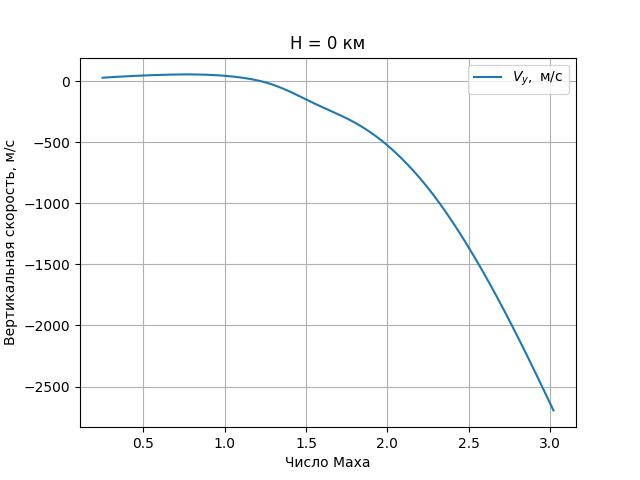
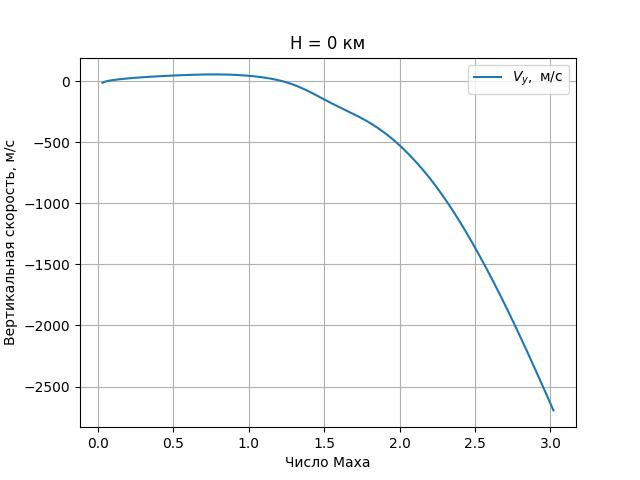
new correct

diff --git a/Kurs_Petr/LTX/Print.py b/Kurs_Petr/LTX/Print.py
@@ -115,32 +115,37 @@ qkm_min = []
 Mq_max = []
 Mqh_min = []
 Mqkm_min = []
-for i in range(len(H_interp)): 
-    Vy_max.append(np.max(V_y[i]))
-    P_potr_min.append(np.min(P_potr[i]))
-    qh_min.append(np.min(qh(M_interp,H_interp[i])))
-    qkm_min.append(np.min(qkm(M_interp,H_interp[i])))
-    # Mq_max = 2*q_max/(sqrt())
-    MVy_max.append(M_interp[np.where(V_y[i]==Vy_max[i])])
-    M_nae.append(M_interp[np.where(P_potr[i]==P_potr_min[i])])
-    Mqh_min.append(M_interp[np.where(qh(M_interp,H_interp[i])==qh_min[i])])
-    Mqkm_min.append(M_interp[np.where(qkm(M_interp,H_interp[i])==qkm_min[i])])
-print(Mqkm_min)
-
-M_interp = np.arange(M1[1],M1[-1],0.0001)
-H_interp = np.arange(H1[0],H1[-1],50)
+MCy_dop = []
+M_interp = np.arange(M1[0],M1[-1],0.00001)
+H_interp = np.arange(H1[0],H1[-1],1000)
+P_rasp = Pr(M_interp,H_interp)
+P_potr = Pp(M_interp,H_interp)
+V_y = Vy(M_interp,H_interp)
+C_y = Cy(M_interp,H_interp)
 M_min = []
 M_max = []
 for i in range(len(H_interp)):
-    for j in range(len(M_interp)):
-        if M_nae[i]<=M_interp[j]:
-            if abs(P_rasp[i][j]-P_potr[i][j])<=100:
-                M_min.append(M_interp[j])
-                break
+    P_potr_min.append(np.min(P_potr[i]))
+    M_nae.append(M_interp[np.where(P_potr[i]==P_potr_min[i])])
+    Vy_max.append(np.max(V_y[i]))
+    qh_min.append(np.min(qh(M_interp,H_interp[i])))
+    qkm_min.append(np.min(qkm(M_interp,H_interp[i])))
+    MVy_max.append(M_interp[np.where(V_y[i]==Vy_max[i])])
+    Mqh_min.append(M_interp[np.where(qh(M_interp,H_interp[i])==qh_min[i])])
+    Mqkm_min.append(M_interp[np.where(qkm(M_interp,H_interp[i])==qkm_min[i])])
     # for j in range(len(M_interp)):
     #     if M_nae[i]>=M_interp[j]:
-    #         if abs(P_rasp[i][j]-P_potr[i][j])<=100:
+    #         if abs(P_rasp[i][j]-P_potr[i][j])<=500:
+    #             M_min.append(M_interp[j])
+    #             break
+    # for j in range(len(M_interp)):
+    #     if M_nae[i]<=M_interp[j]:
+    #         if abs(P_rasp[i][j]-P_potr[i][j])<=500:
     #             M_max.append(M_interp[j])
     #             break
-print(M_min)
+    for j in range(len(M_interp)): 
+        if abs(Cydop(M_interp[j])-C_y[i][j])<=0.01:
+            MCy_dop.append(M_interp[j])
+            break
+print(M_max)
 
